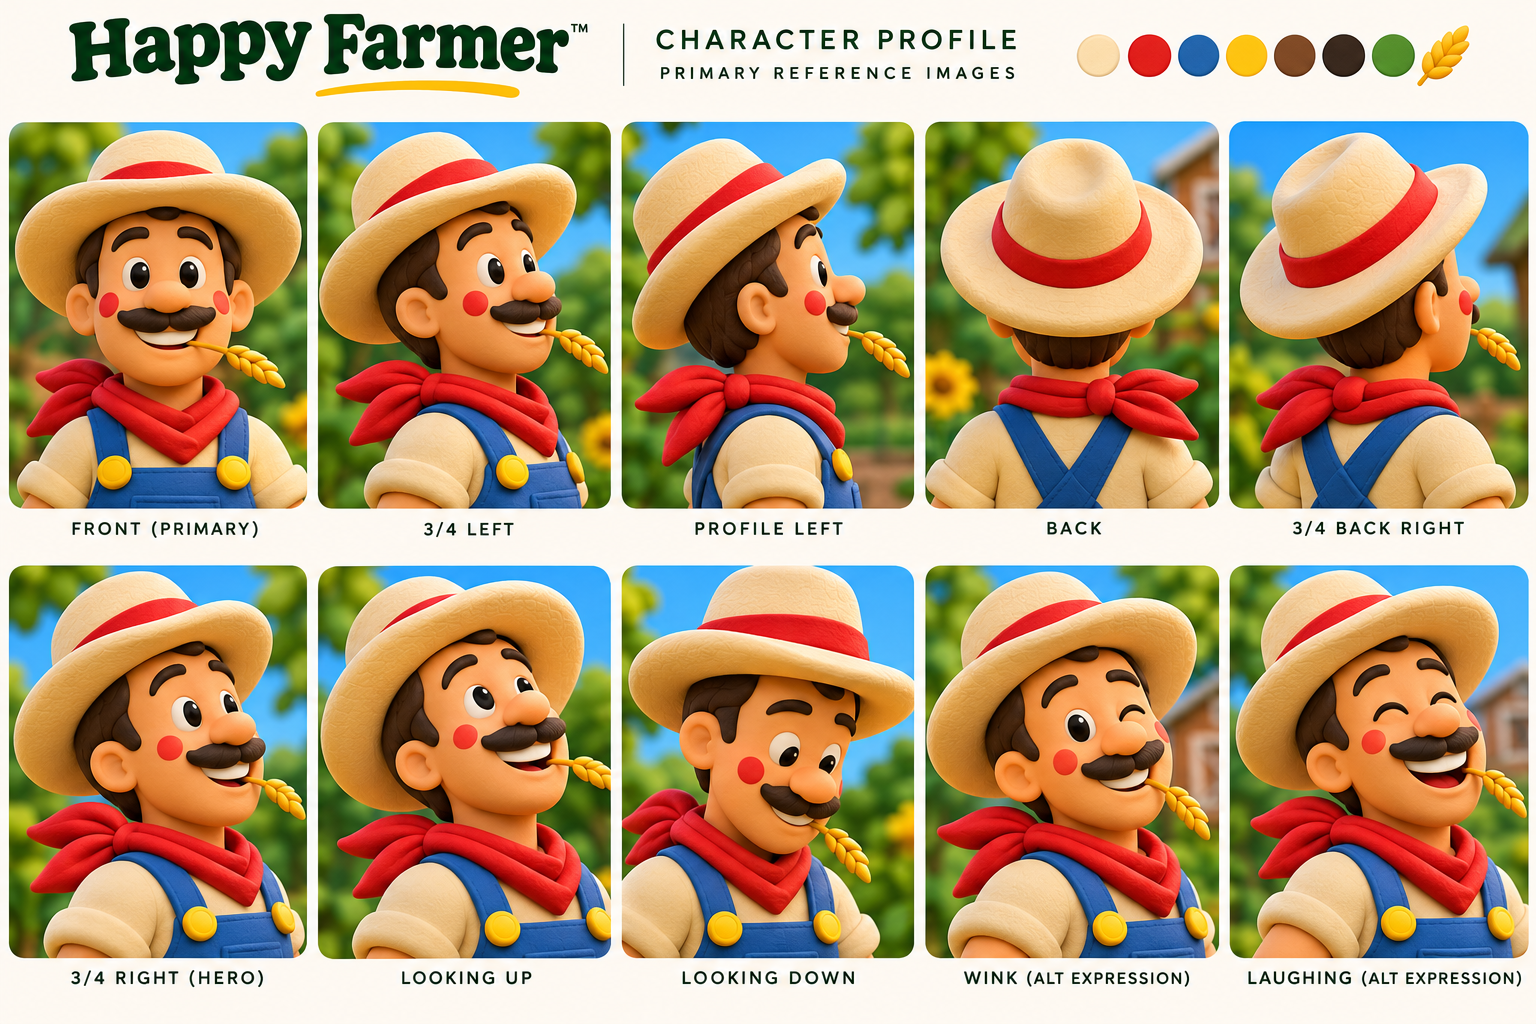
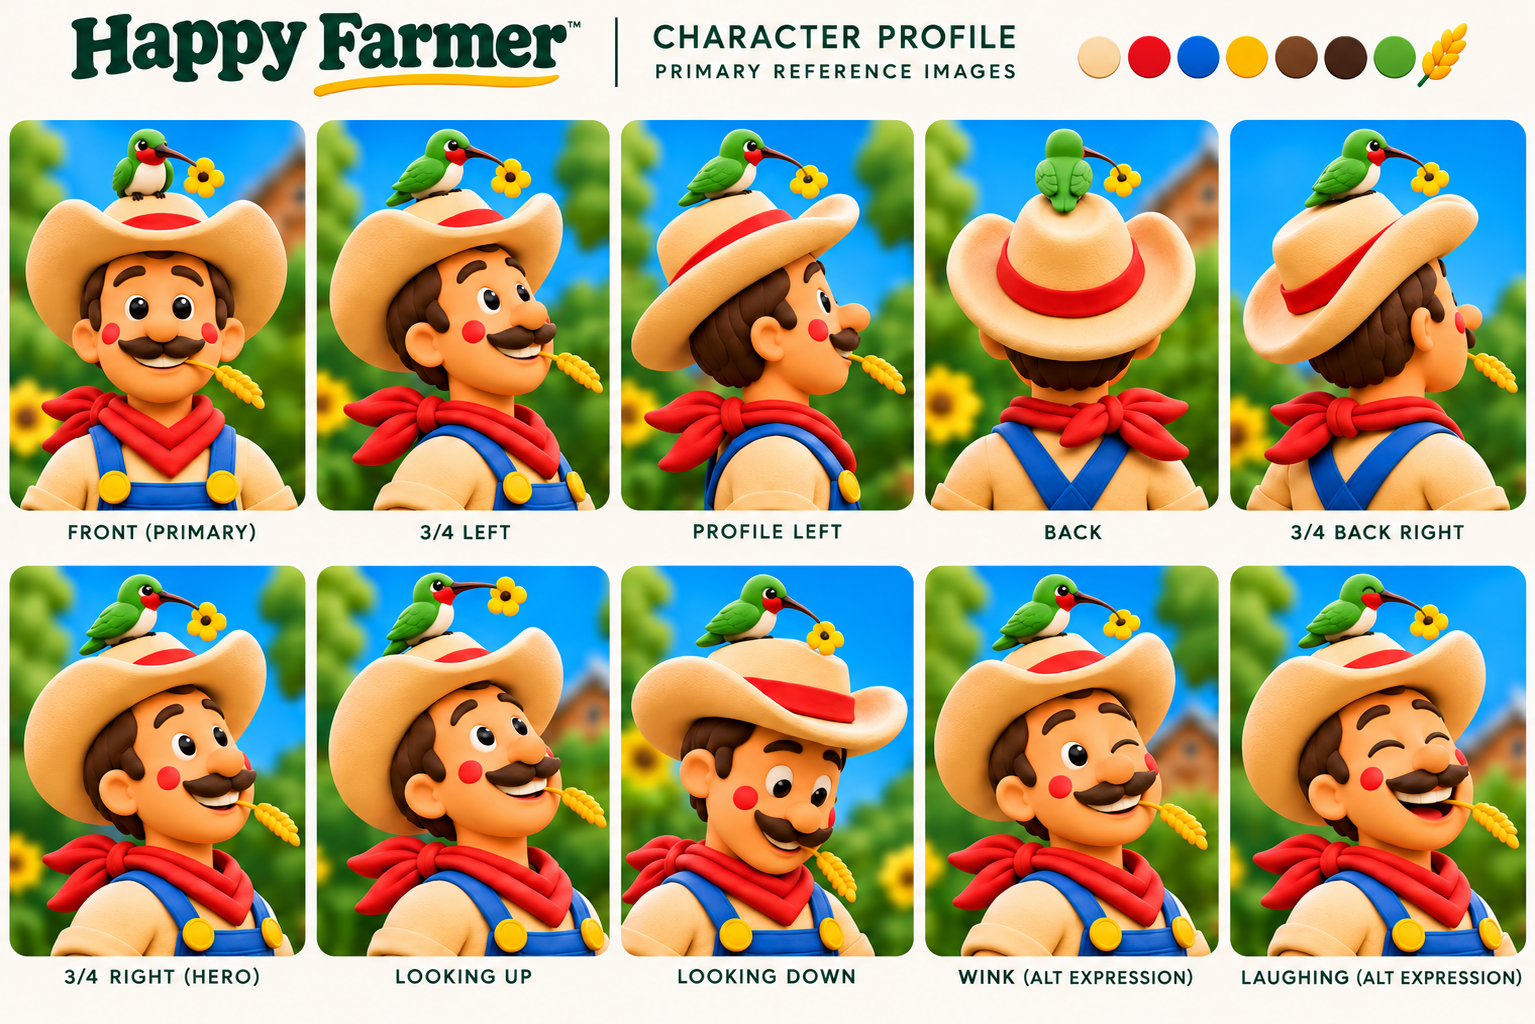
Brand: Happy Farmer master character sheet (hummingbird + wheat sprig) replaces the draft; reference crops
Claude-Session: https://claude.ai/code/session_01J2R4BD6HLiQv8B6i7zkBfA

diff --git a/media/brand/clay/README.md b/media/brand/clay/README.md
@@ -23,3 +23,6 @@ The real Herb Garden Kit design is media/brand/herb-kit-packaging.png and herb-k
 
 ## Herb Garden Kit clay art (Jared, Nov 2 2026, approved, supersedes the Canva render MAHZyjtyv5Q)
 Jared supplied finished claymation renders of the real packaging: media/brand/clay/herb-kit/box-front.png, packets.png (all ten, real text), grow-guide.png. These are THE herb kit product images; use them (not generated ones) for the site, social product scenes and emails.
+
+## Happy Farmer MASTER character sheet (Jared, Nov 2 2026, 23:47) — supersedes every earlier farmer description
+media/brand/clay/happy-farmer-character-sheet.png, ten views. Canonical features: cream cowboy hat with a red band; a small green red-throated hummingbird perched on the crown of the hat holding a yellow flower; a wheat sprig in the corner of his mouth; dark brown hair and thick mustache; rosy cheeks; red bandana; cream shirt; blue overalls with yellow buttons. Alt expressions: wink, laughing. Crops: happy-farmer-front.png, happy-farmer-hero-3q-right.png, happy-farmer-profile-left.png. Every generated scene must match this sheet (hummingbird AND wheat sprig); an earlier draft sheet without the bird was rejected.
